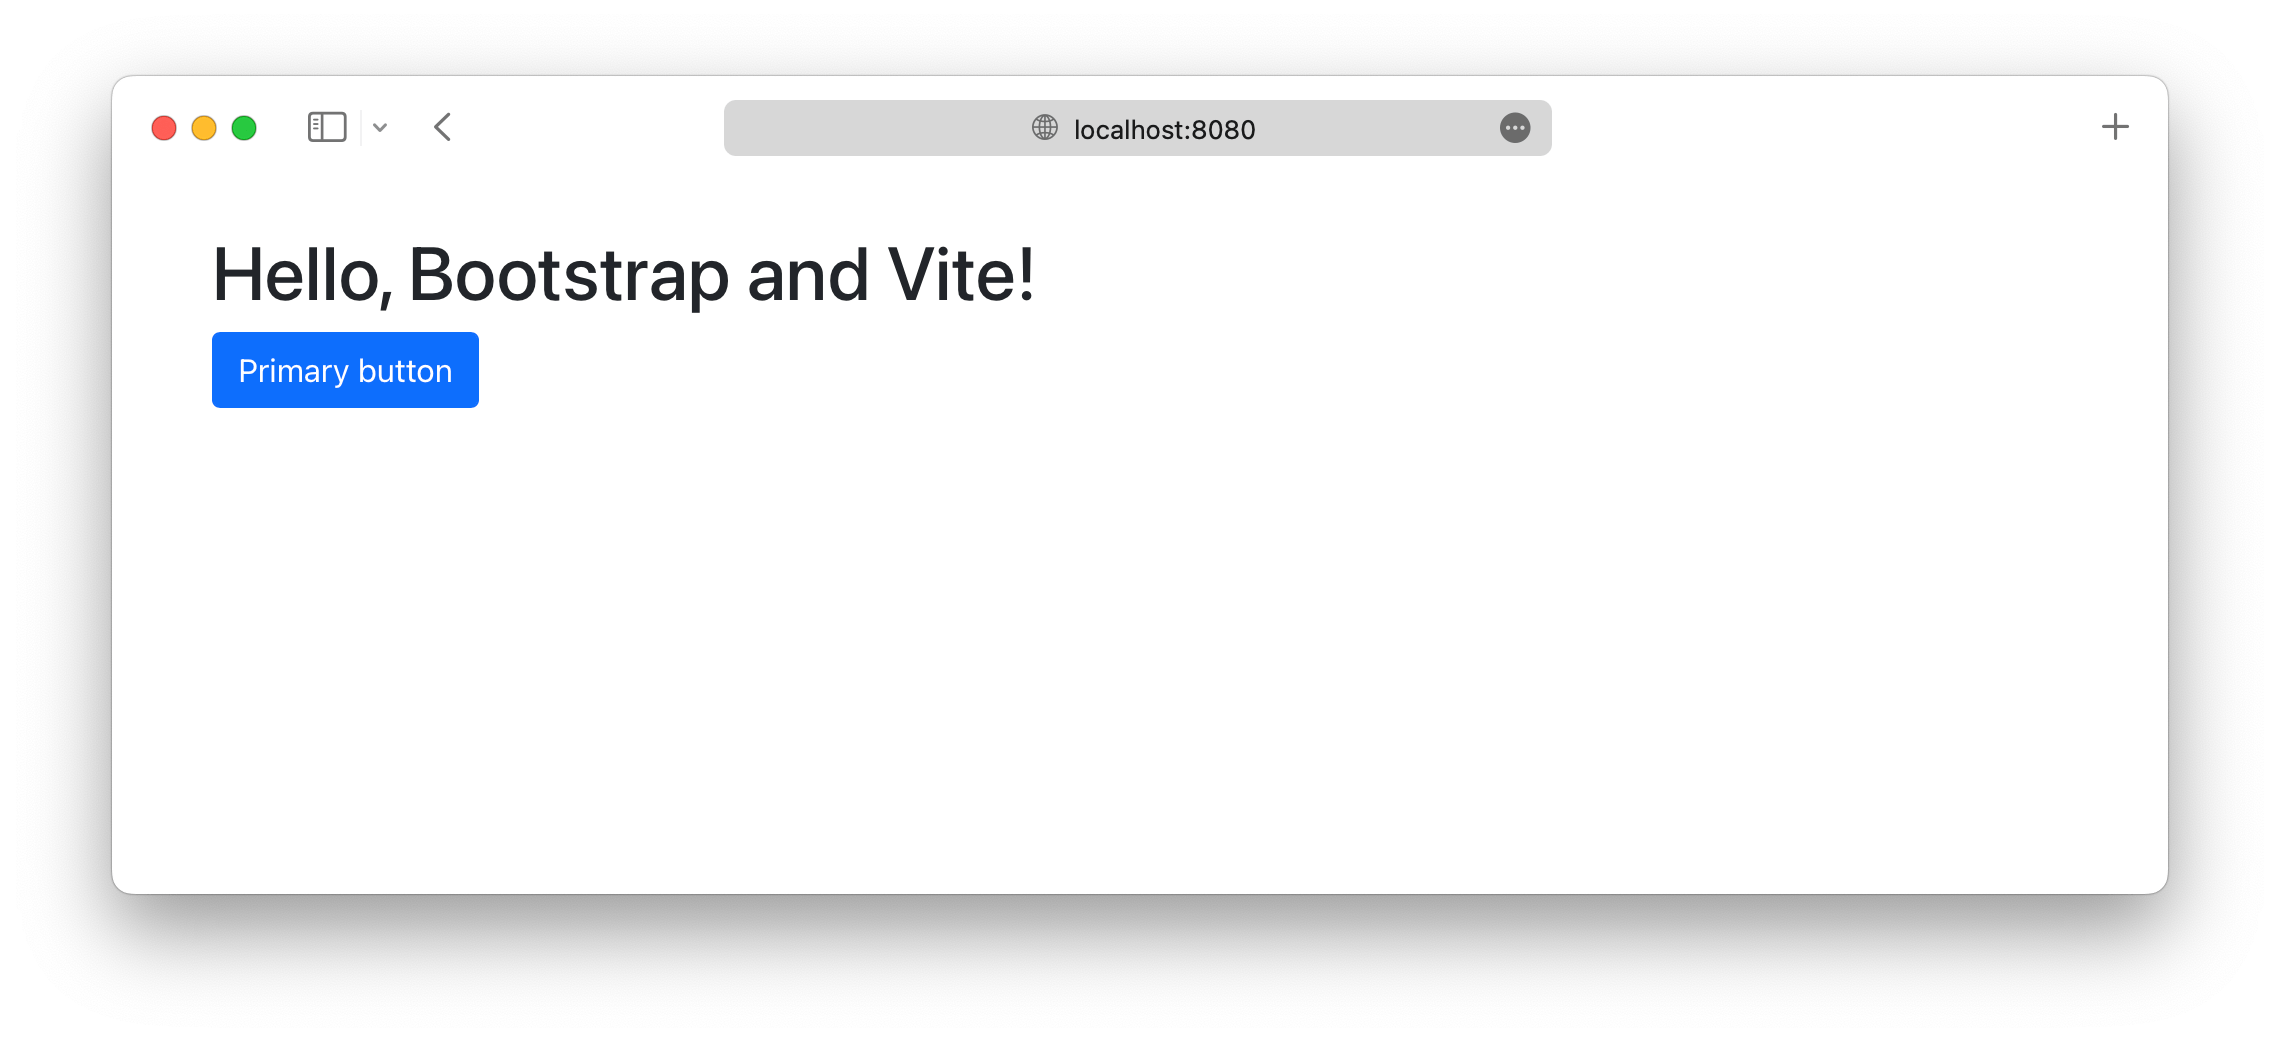
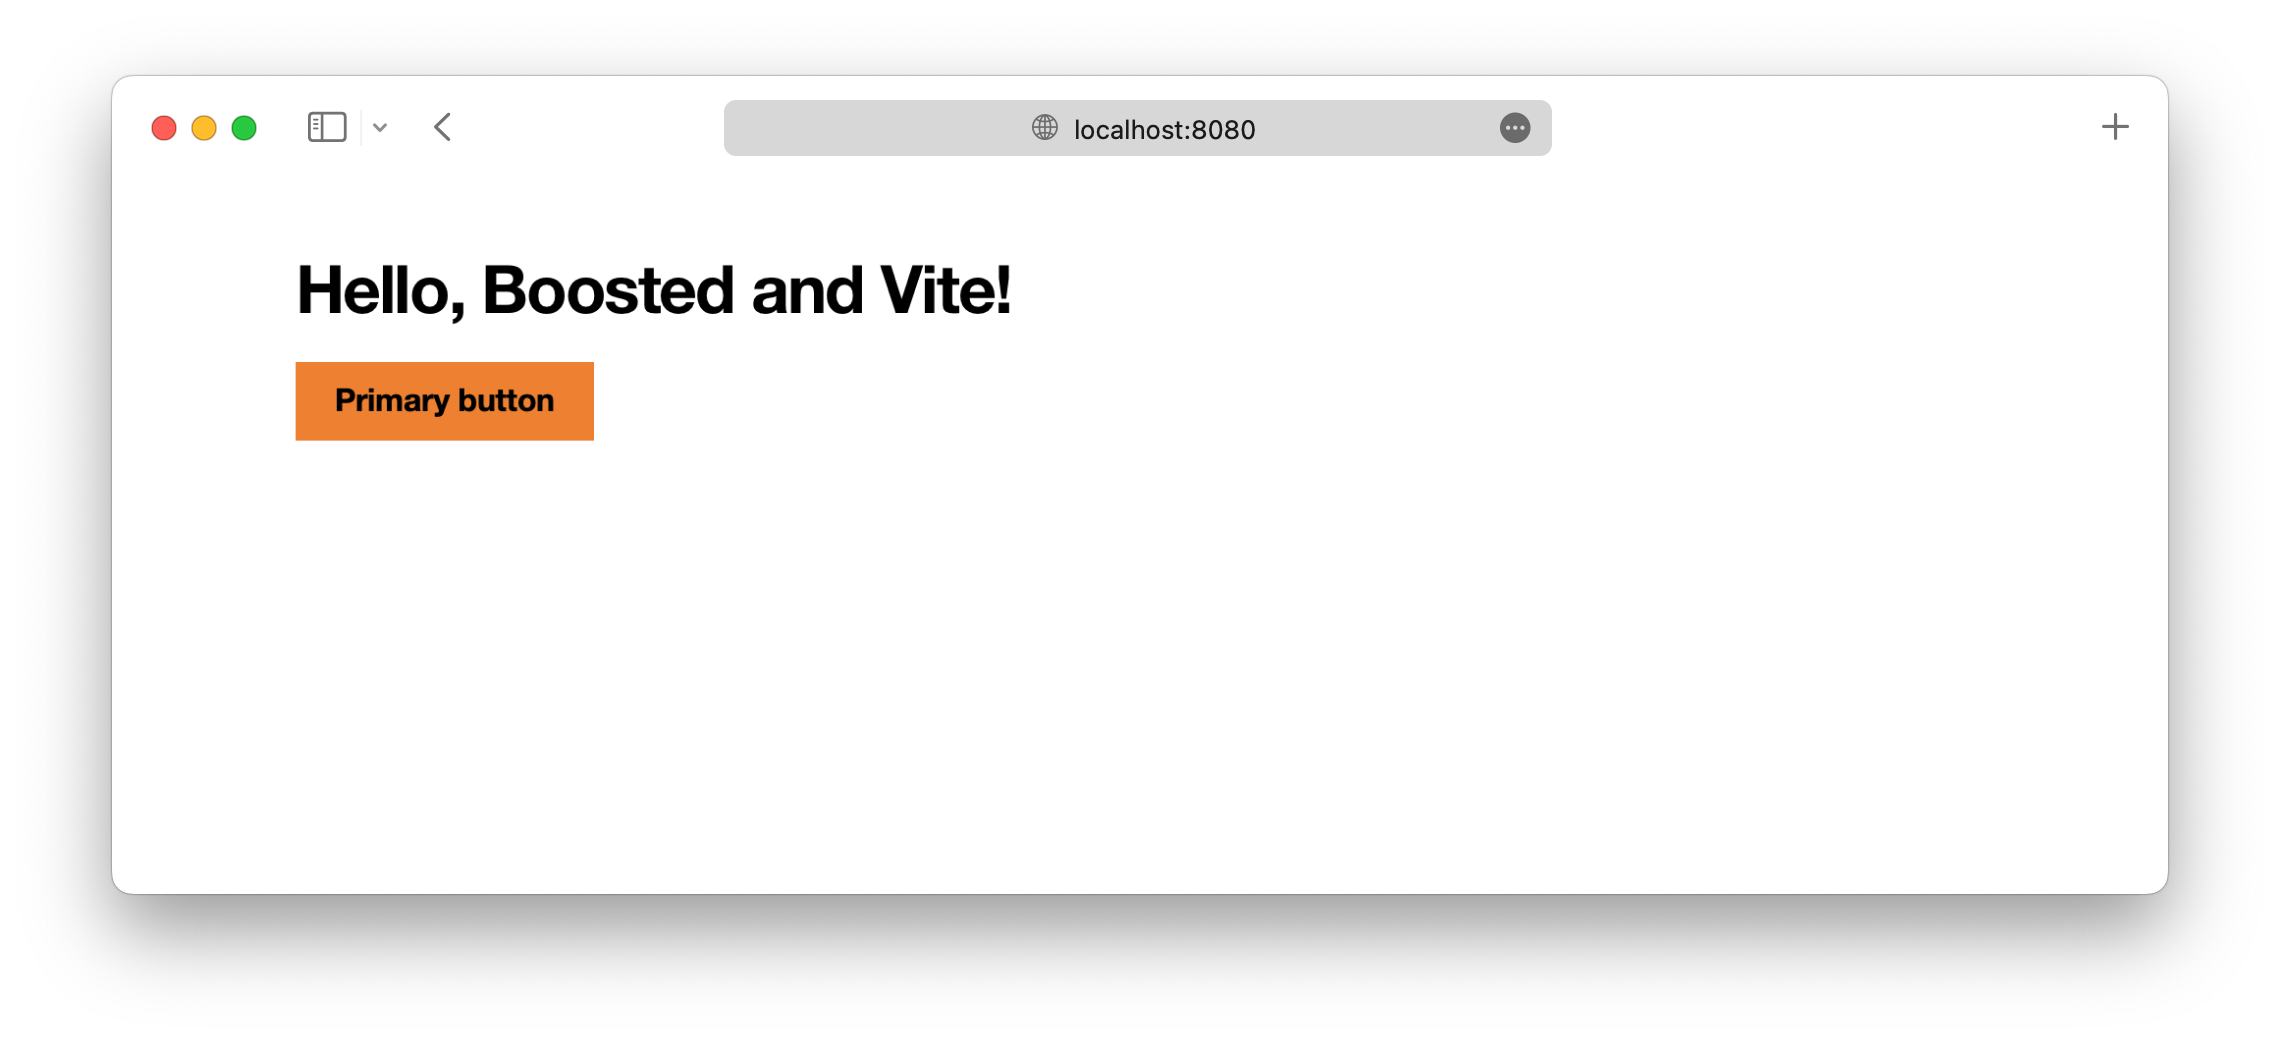
Update Vite image and tuto

Changed region(s): [[0.0934, 0.2457, 0.4671, 0.4299]]

diff --git a/site/content/docs/5.2/getting-started/vite.md b/site/content/docs/5.2/getting-started/vite.md
@@ -164,12 +164,18 @@ In the next and final section to this guide, we’ll import all of Boosted’s C
    }
    ```
 
-2. **Now, let's import Boosted's font and CSS.** Assuming that you already have the fonts inside your project, add the following to `src/scss/styles.scss` to import all of Boosted's source Sass.
+2. **Let's import Boosted's fonts.** Download the WOFF2 version of our Helvetica Neue fonts, **limited to Orange brand usage**: [see `NOTICE.txt` for more information about Helvetica Neue license]({{< param repo >}}/blob/v{{< param current_version >}}/NOTICE.txt).
+
+   ```sh
+   mkdir src/fonts
+   cp /path/HelvNeue55_W1G.woff2 src/fonts/
+   cp /path/HelvNeue75_W1G.woff2 src/fonts/
+   ```
+
+3. **Now, let's import Boosted's CSS.** Add the following to `src/scss/styles.scss` to import all of Boosted's source Sass.
 
    ```scss
    // Import all of Boosted's CSS
-   $font-path: "relative-path-to/font-folder/";
-
    @import "~boosted/scss/orange-helvetica";
    @import "~boosted/scss/boosted";
    ```
